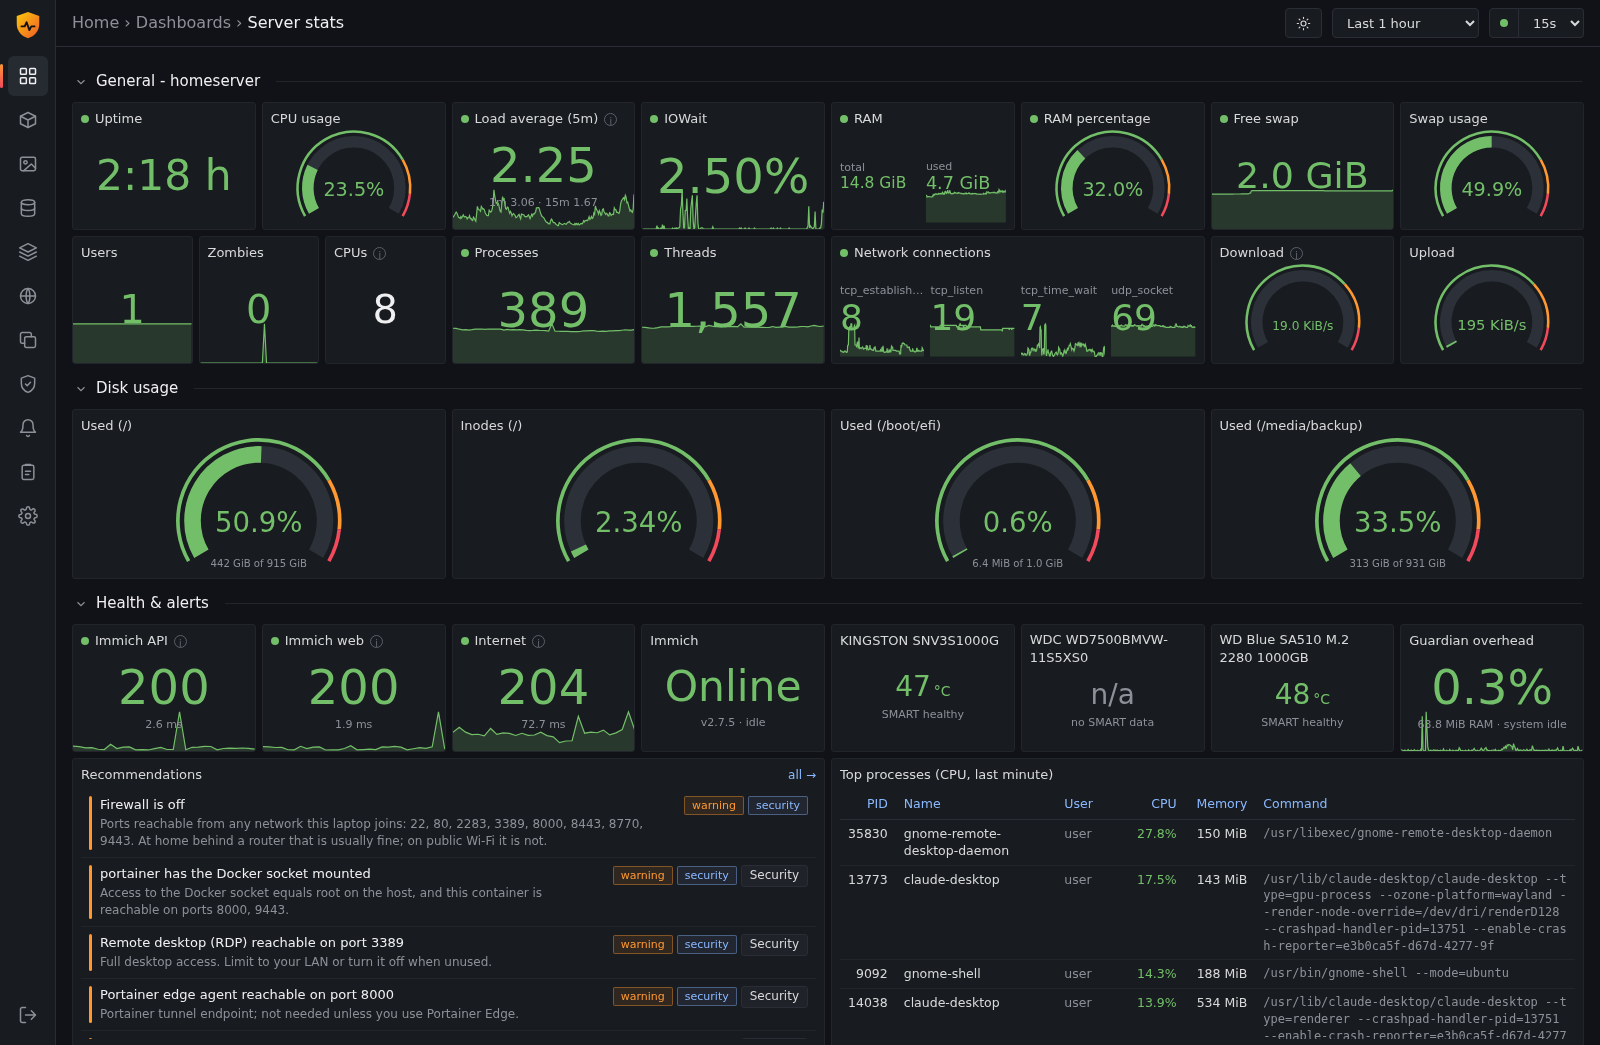
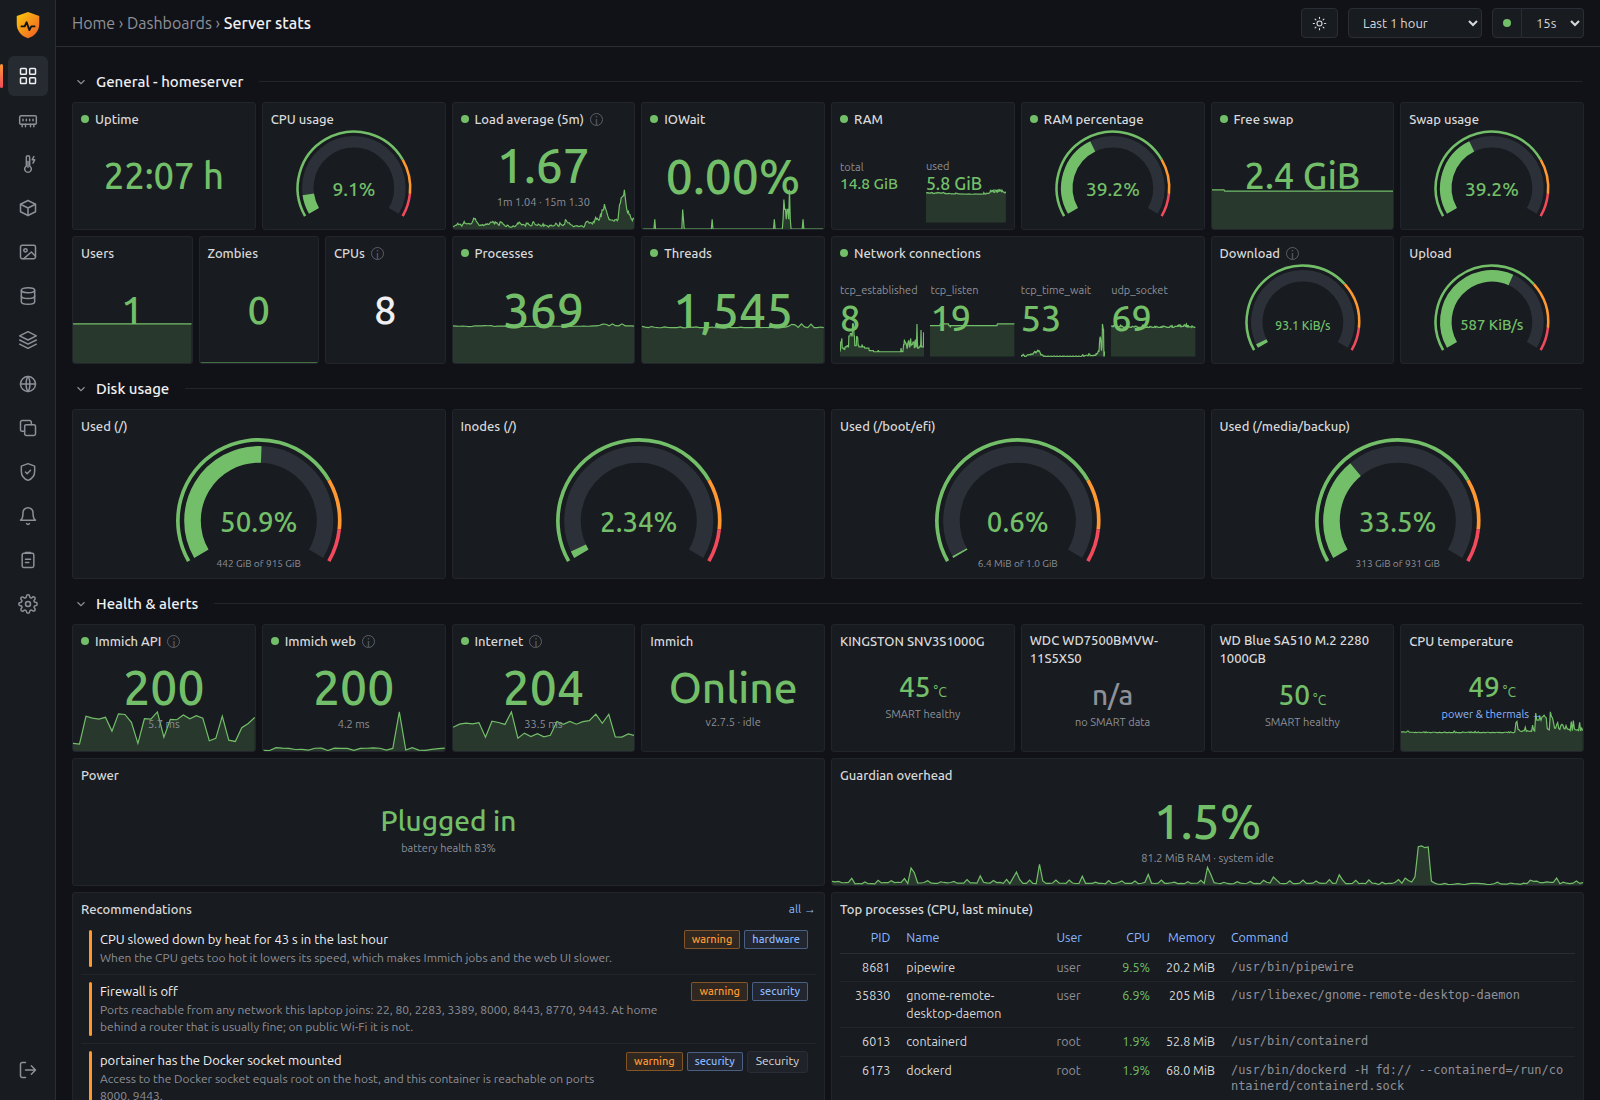
Refresh screenshots for every dashboard; tidy temperature axis and busy rules text
- New and updated screenshots: server, memory, power & thermals, docker, immich,
  storage, services, network, duplicates, security, recommendations, audit log,
  settings and the phone layout.
- Temperature chart tops out at 100 °C (120 °C only if a sensor goes above 100).
- Settings lists the new busy conditions (on battery, CPU temperature).

diff --git a/guardian/static/app.js b/guardian/static/app.js
@@ -570,7 +570,8 @@ D.hardware = {
       stat({ title: "Power profile", value: d.profile || "–", color: "var(--strong)", span: 4, h: 3, small: true, sub: h.busy ? `heavy work paused: ${esc(h.busy)}` : "heavy work allowed" });
 
     const charts =
-      timeseries({ title: "Temperatures", key: "hw-temp", t, gap, fmt: (v) => (v == null ? "–" : v.toFixed(0) + " °C"), span: 12, series: [
+      timeseries({ title: "Temperatures", key: "hw-temp", t, gap, fmt: (v) => (v == null ? "–" : v.toFixed(0) + " °C"), span: 12,
+        max: Math.max(0, ...colOf(S, "max_temp").filter((v) => v != null)) > 100 ? 120 : 100, series: [
         { name: "CPU", color: pal(3), values: colOf(S, "cpu_temp") }, { name: "hottest sensor", color: pal(4), values: colOf(S, "max_temp") }] }) +
       timeseries({ title: "Thermal throttling", key: "hw-thr", t, gap, fmt: (v) => pct(v, 2), span: 12, info: "Share of time the CPU was slowed down by heat", series: [
         { name: "throttled", color: pal(4), values: colOf(S, "throttle_pct") }] }) +
@@ -1094,7 +1095,7 @@ D.settings = {
       <p class="muted">Protected anywhere: ${esc(c.protection.protected_patterns.join(", "))}</p><p class="muted">Protected services: <span class="mono">${esc(c.protection.protected_units.join(", "))}</span></p>
       <p class="muted">Edit <span class="mono">${esc(s.config_file)}</span>, then <span class="mono">systemctl --user restart guardian</span>.</p>`, { span: 16, h: "auto" });
     const load = panel("Load protection", `<div class="kv">
-      <div>Busy when</div><div>load &gt; ${c.governor.busy_load_per_cpu}/CPU, CPU &gt; ${c.governor.busy_cpu_percent}%, RAM free &lt; ${c.governor.busy_mem_available_percent}%, I/O pressure &gt; ${c.governor.busy_io_pressure}%, or Immich processing</div>
+      <div>Busy when</div><div>load &gt; ${c.governor.busy_load_per_cpu}/CPU, CPU &gt; ${c.governor.busy_cpu_percent}%, RAM free &lt; ${c.governor.busy_mem_available_percent}%, I/O pressure &gt; ${c.governor.busy_io_pressure}%, Immich processing${c.governor.busy_on_battery ? ", on battery" : ""}, or CPU ≥ ${c.governor.busy_cpu_temp} °C</div>
       <div>While busy</div><div>heavy checks wait (up to ${c.governor.max_defer}× their interval); duplicate scans pause</div>
       <div>Hard limits</div><div>systemd CPUQuota 25%, MemoryMax 400 MB, idle I/O class, nice 10</div>
       <div>Scan read rate</div><div>${c.duplicates.read_rate_mb_s} MB/s</div>

diff --git a/README.md b/README.md
@@ -60,13 +60,21 @@ It is designed to **never become the problem it watches for**: about 0.5% of one
 
 ## Screenshots
 
-| Security & vulnerabilities | Docker containers |
+| Memory (live) | Power & thermals |
 |---|---|
+| ![Memory](docs/screenshots/memory.png) | ![Power & thermals](docs/screenshots/power.png) |
+| **Security & vulnerabilities** | **Docker containers** |
 | ![Security](docs/screenshots/security.png) | ![Docker](docs/screenshots/docker.png) |
 | **Immich** | **Storage & drive health** |
 | ![Immich](docs/screenshots/immich.png) | ![Storage](docs/screenshots/storage.png) |
-| **Services** | **Phone layout** |
-| ![Services](docs/screenshots/services.png) | <img src="docs/screenshots/mobile.png" width="260" alt="Mobile view"> |
+| **Services** | **Network** |
+| ![Services](docs/screenshots/services.png) | ![Network](docs/screenshots/network.png) |
+| **Recommendations** | **Duplicate files** |
+| ![Recommendations](docs/screenshots/recommendations.png) | ![Duplicate files](docs/screenshots/duplicates.png) |
+| **Audit log** | **Settings** |
+| ![Audit log](docs/screenshots/audit.png) | ![Settings](docs/screenshots/settings.png) |
+| **Phone layout** | |
+| <img src="docs/screenshots/mobile.png" width="260" alt="Mobile view"> | |
 
 ## Requirements
 
